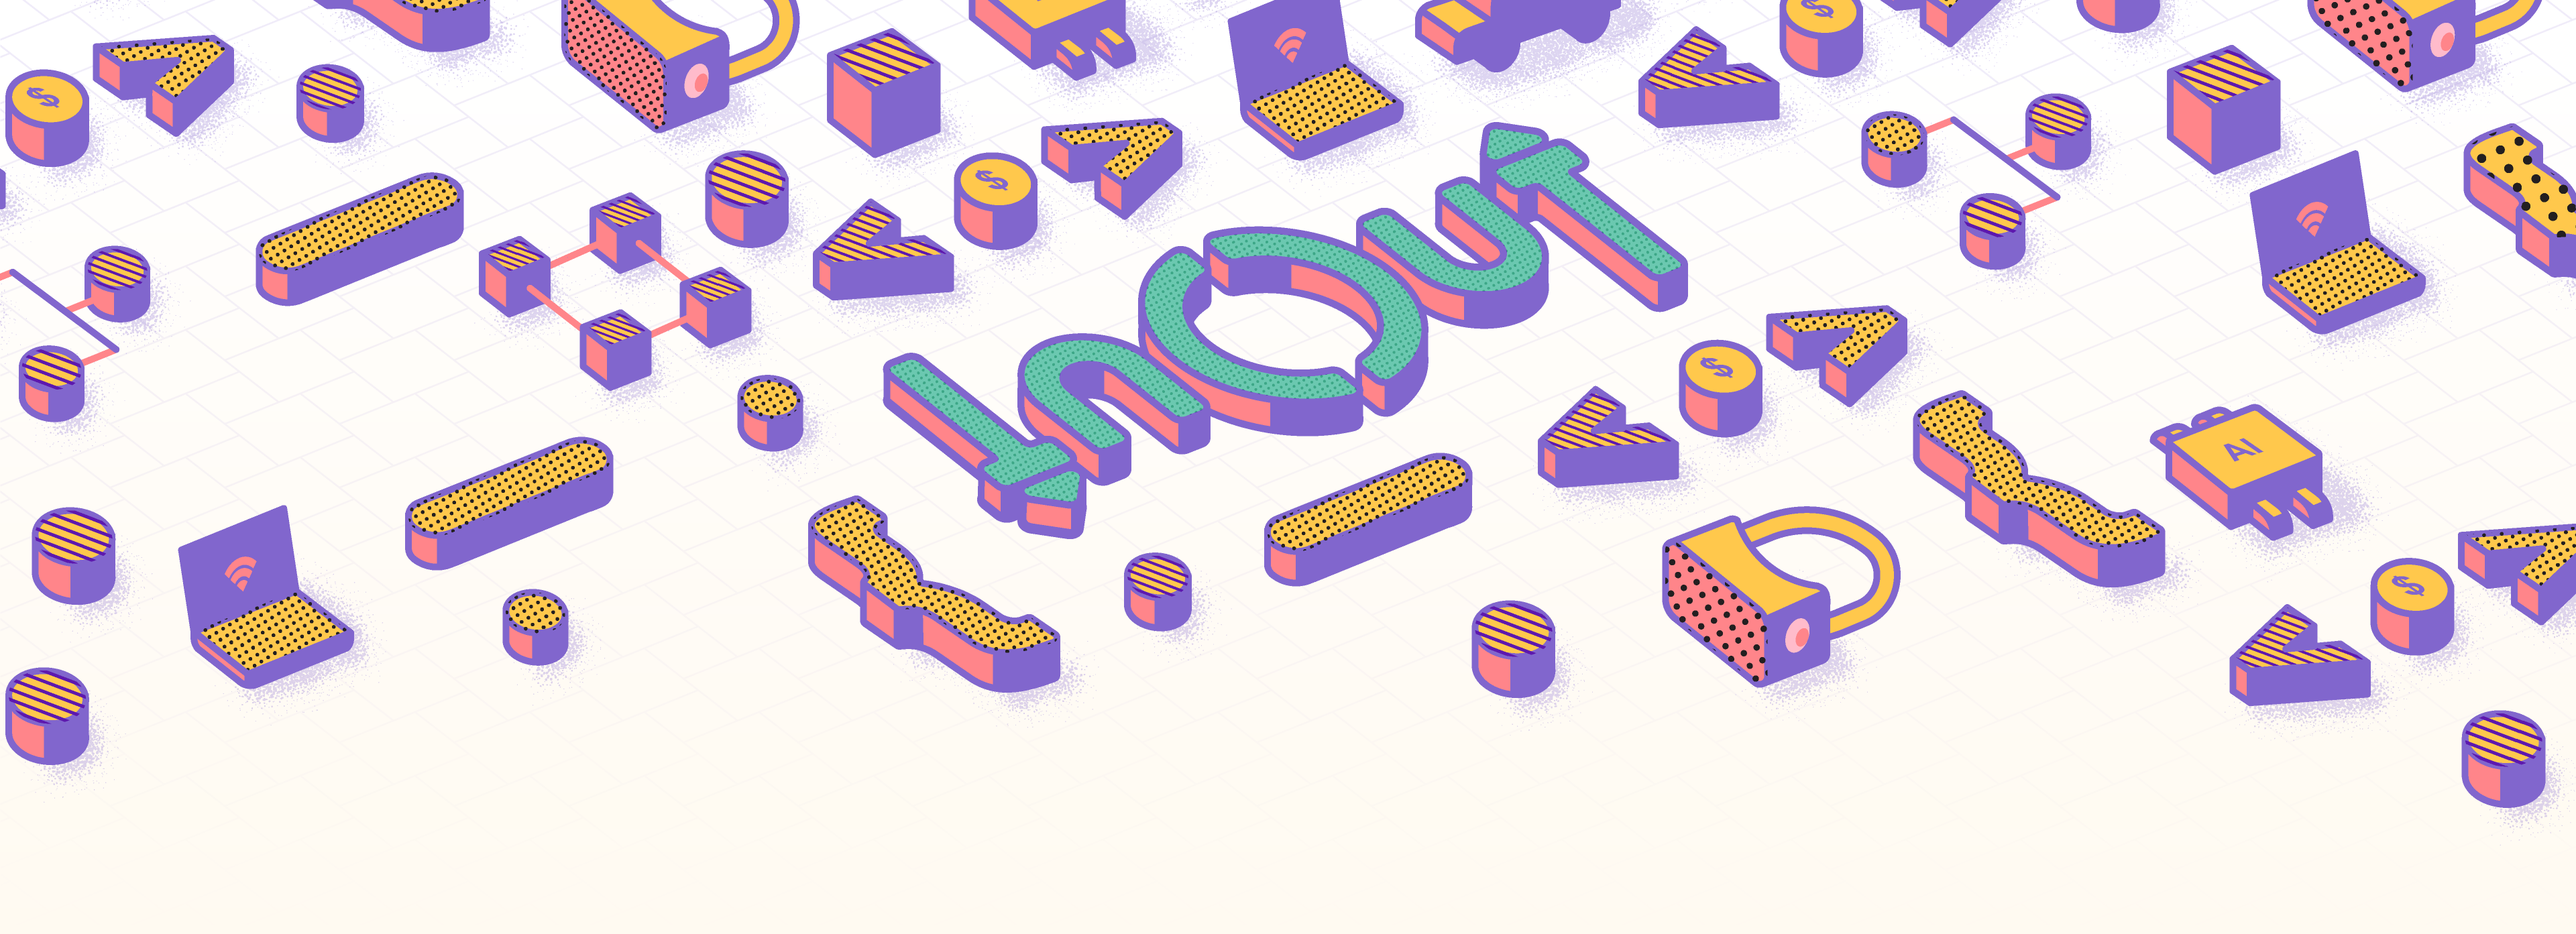
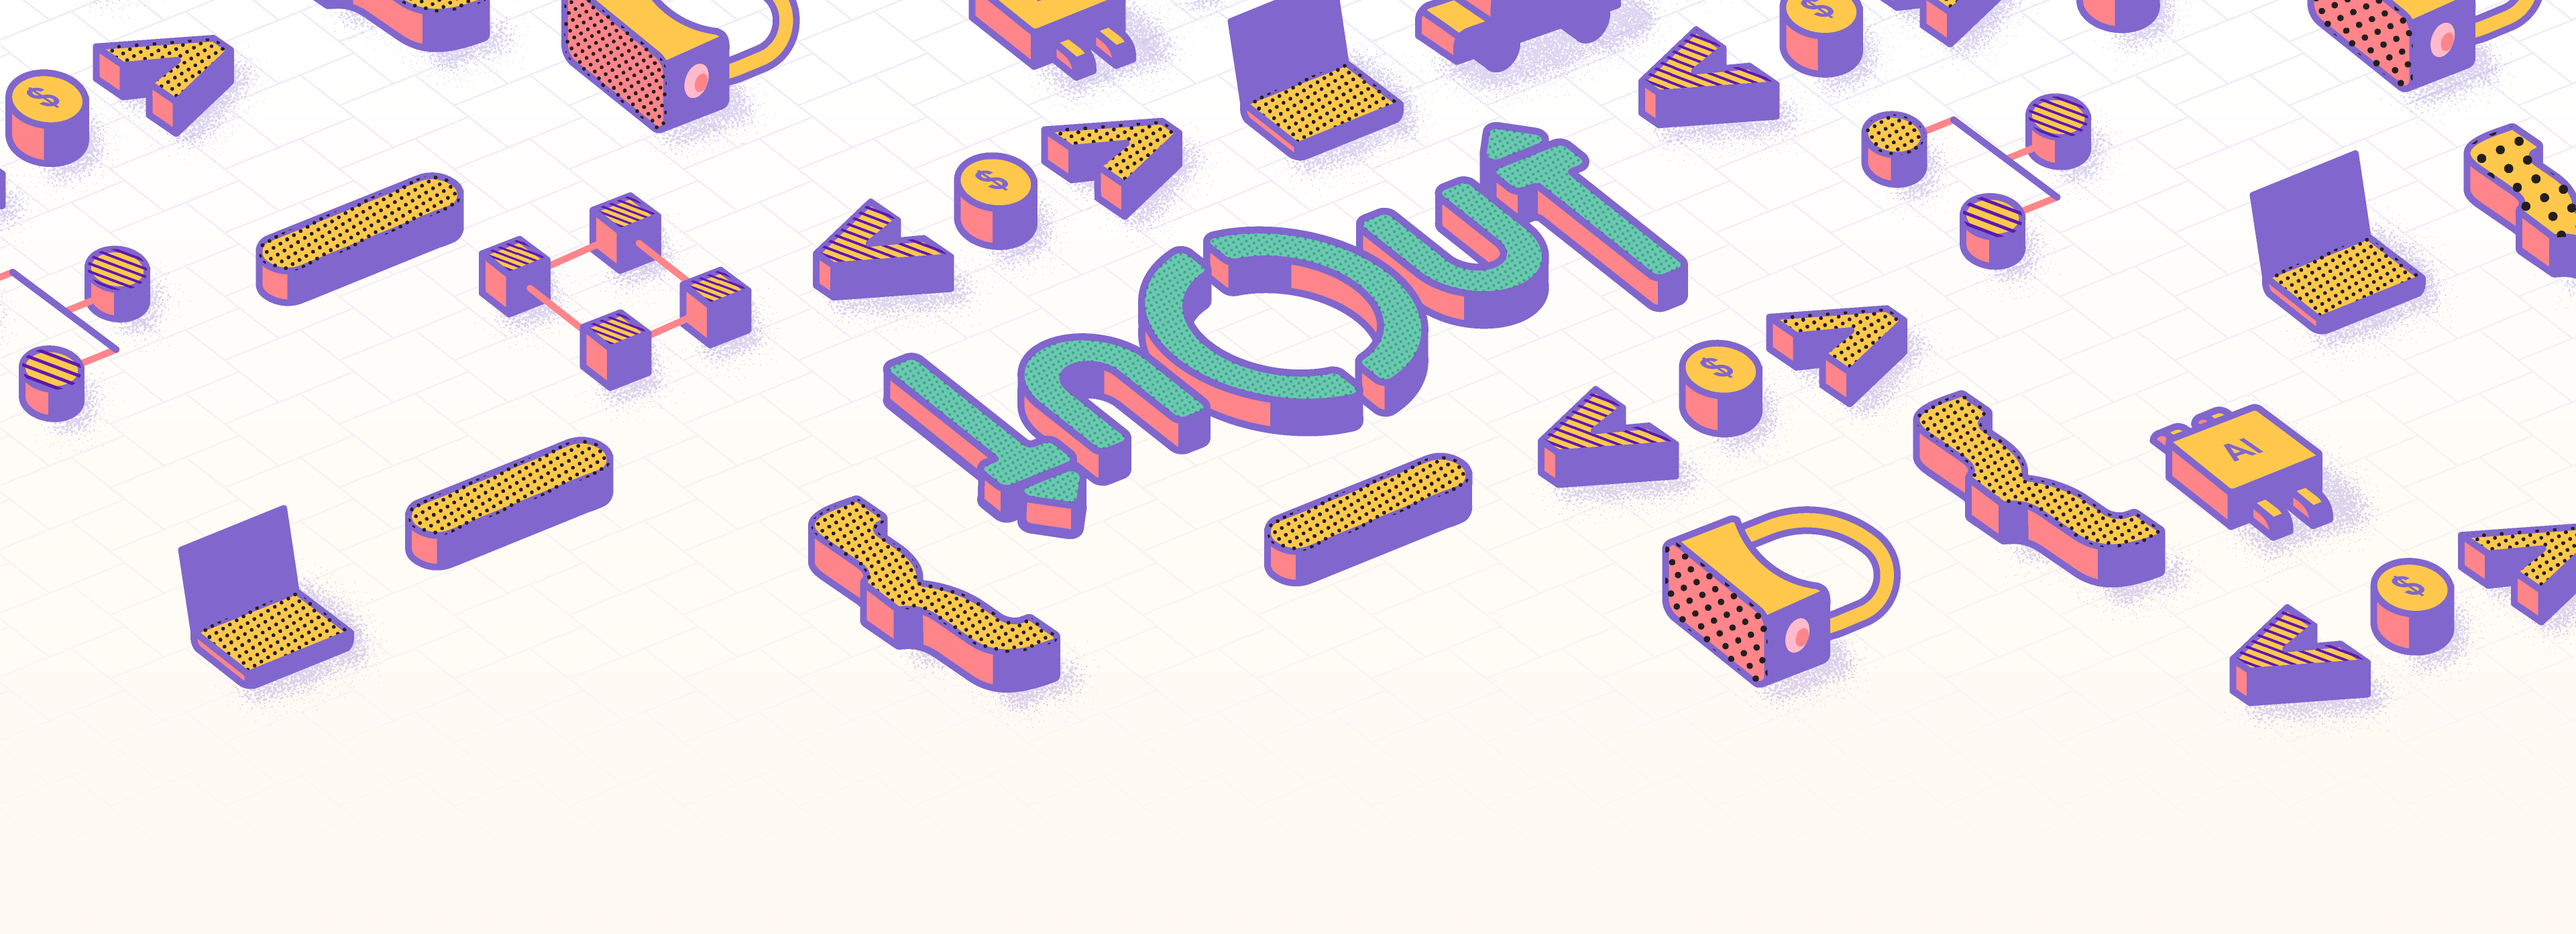
:sparkles: Update floating particles

diff --git a/src/scss/_header.scss b/src/scss/_header.scss
@@ -34,24 +34,61 @@ header {
       &.circle {
         width: 4.5%;
 
+        &.big {
+          width: 5.5%;
+        }
+
         &.c1 {
+          top: 70%;
+          left: 1%;
+        }
+        &.c2 {
+          top: 56%;
+          left: 2%;
+        }
+        &.c3 {
           top: 15%;
           left: 8%;
         }
-    
-        &.c2 {
+        &.c4 {
+          top: 5%;
+          left: 11%;
+        }
+        &.c5 {
           top: 30%;
           left: 14%;
         }
-    
-        &.c3 {
+        &.c6 {
           top: 4%;
           left: 18%;
         }
-    
-        &.c4 {
+        &.c7 {
+          top: 64%;
+          left: 20%;
+        }
+        &.c8 {
+          top: 40%;
+          left: 28%;
+        }
+        &.c9 {
+          top: 12%;
+          left: 27%;
+        }
+        &.c10 {
+          top: 57%;
+          left: 45%;
+        }
+        &.c11 {
+          top: 64%;
+          left: 60%;
+        }
+        &.c12 {
           top: 21%;
           left: 70%;
+        }
+        &.c13 {
+          top: 72%;
+          left: 96%;
         }
       }
 
@@ -62,10 +99,17 @@ header {
           top: 54%;
           left: 24.5%;
         }
-    
         &.b2 {
+          top: 2%;
+          left: 34%;
+        }
+        &.b3 {
           top: 26%;
           left: 81%;
+        }
+        &.b4 {
+          top: 5%;
+          left: 83%;
         }
       }
 
@@ -76,7 +120,7 @@ header {
           top: 38%;
           left: 3%;
         }
-    
+
         &.v2 {
           top: 32%;
           left: 89%;
